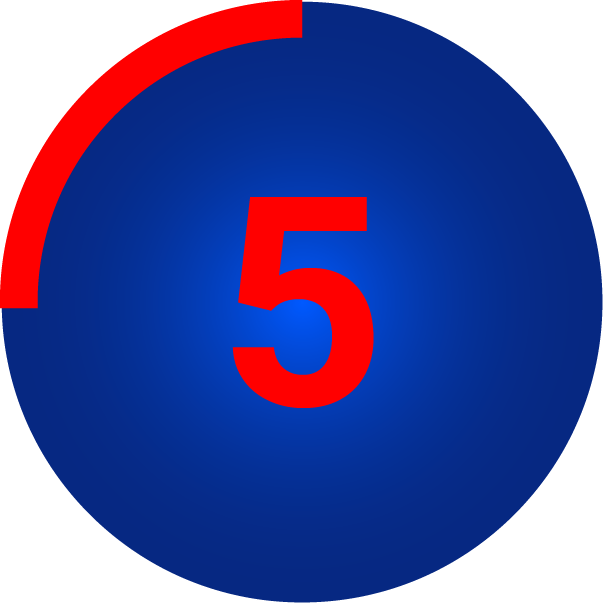
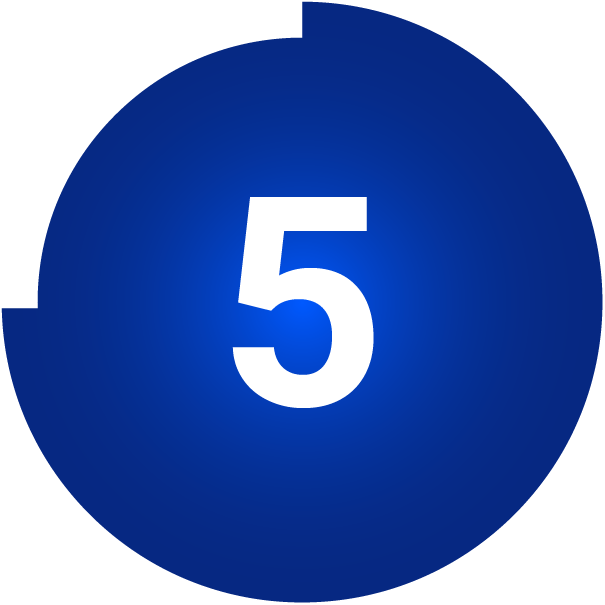
timer

Changed region(s): [[0.0, 0.0, 0.5058, 0.5355], [0.3868, 0.3273, 0.6248, 0.6843]]

diff --git a/controller.html b/controller.html
@@ -73,6 +73,9 @@ var faded_answers = 0;
 
 var gid = function(id) {return document.getElementById(id)};
 
+var timer_interval;
+var timer = 20;
+
 function continueRound() {
 if (status == "update_questions") {
     message_broadcast({'command':'update_status',"data":"next_answer"});
@@ -98,6 +101,16 @@ if (status == "start_timer") {
     gid("answer2").classList.remove("disabled")
     gid("answer3").classList.remove("disabled")
     gid("answer4").classList.remove("disabled")
+    timer = 20;
+    message_broadcast({'command':'update_status','data':'update_timer','time':20});
+    timer_interval = setInterval(function() {
+        timer -= 1;
+        message_broadcast({'command':'update_status','data':'update_timer','time':timer});
+        if (timer == 0) {
+            clearInterval(timer_interval);
+            gid("wrongb").classList.remove("disabled")
+        }
+    },1000);
 }
 if (faded_answers == 4) {
     status = "start_timer";
@@ -118,6 +131,9 @@ function wrong() {
     gid("answer4").classList.add("disabled")
     gid("correct").classList.add("disabled")
     gid("wrongb").classList.add("disabled")
+
+    clearInterval(timer_interval);
+    message_broadcast({'command':'update_status','data':'update_timer','time':-1});
 }
 
 function correct() {
@@ -156,6 +172,8 @@ function answer(index) {
     fadeOutPause(document.querySelector("#countdown"),true)
     gid("correct").classList.remove("disabled")
     gid("wrongb").classList.remove("disabled")
+    clearInterval(timer_interval);
+    message_broadcast({'command':'update_status','data':'update_timer','time':-1});
 }
 
 function message_broadcast(message)

diff --git a/index.html b/index.html
@@ -129,11 +129,12 @@ Fourth choice
     display: none;
 ">
 
-<img src="t10.png" style="
+<img id="timer" src="t10.png" style="
     height: 290px;
     position: absolute;
     top: 130px;
     right: 80px;
+    display: none;
 ">
 
 <div id="team_numbers">
@@ -215,6 +216,14 @@ function message_receive(ev)
     if (!message) return; // ignore empty msg or msg reset
 
     if (message.command == 'update_status') {
+    if (message.data == "update_timer") {
+    if (message.time == -1) {
+        gid("timer").style.display = "none";
+    } else {
+        gid("timer").style.display = "block";
+        gid("timer").src = "t"+(message.time == -0.5 ? "0b" : message.time)+".png"
+    }
+    }
     if (message.data == "game_start") {
         gid("option1").style.display = "none";
         gid("option2").style.display = "none";
